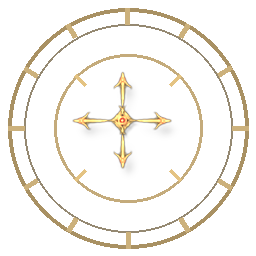
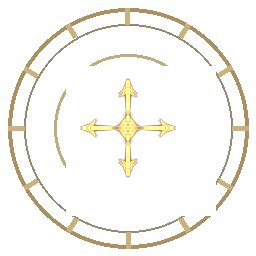
it.62b: the close mark reads as an X, centred
The compass came in as a four-pointed cross hung off-centre: its red gem (the
mark's true middle) sits ~9px up and left of the bounding box's centre. The
art is now centred on the gem, mirrored four-fold so its unequal arms match,
turned 45 degrees into an X and cropped symmetrically — zero margin on every
side, gem at the exact centre.

Claude-Session: https://claude.ai/code/session_01KH3EW8VsttkrY56DAoxypX

diff --git a/public/assets/README.md b/public/assets/README.md
@@ -49,8 +49,8 @@ Everything the game loads at runtime lives here, and ONLY what it loads:
 
 | File | Source (test-models) | Used by |
 | --- | --- | --- |
-| `ui/frames/close_cross.png` | `compass.png` (trimmed, bronze-graded, 96px) | the close medallion at rest |
-| `ui/frames/close_cross_hot.png` | `compass.png` (gold-graded under its own bloom) | the close medallion on hover |
+| `ui/frames/close_cross.png` | `compass.png` — re-centred on its gem, mirrored four-fold, turned 45° into an X, bronze-graded, 96px | the close medallion at rest |
+| `ui/frames/close_cross_hot.png` | the same X, gold-graded under its own bloom | the close medallion on hover |
 | `ui/frames/load_seal.png` | `compass.png` inside a drawn rune ring | the turning seal on the loading screen |
 | `ui/frames/filigree_band.png` | `Darinia/ornaments/ornament3.png`, repainted gold | loading screen top / bottom bands |
 | `ui/frames/filigree_corner.png` | `Darinia/ornaments/ornament2.png`, repainted gold | loading screen corner knots |

diff --git a/docs/development_log.md b/docs/development_log.md
@@ -21,6 +21,16 @@
   concern: they live on the town's Hall of Records board, where the delver
   who set them stands. Six buttons now sit under the logo, balanced again.
 
+### The close mark: an X, dead centre
+- The first bake left the compass as it came: a four-pointed cross that read
+  as a plus, hung off to one side. Its red gem — the mark's true visual
+  centre — sits about nine pixels up and left of the bounding box's middle,
+  so centring on the box was always going to lean. The mark is now re-centred
+  on the GEM, mirrored onto itself both ways so its four unequal arms come
+  out the same length, then turned 45° into an X and cropped symmetrically
+  about that centre. The baked art measures zero margin on all four sides
+  with the gem at (47.5, 47.5) of 96 — square, centred, and unmistakably an X.
+
 ### Gothic close medallions
 - Every panel's plain `✕` is replaced by a carved medallion: a dark iron
   disc with an inset shadow and a bronze rim, the steel cross at its centre.
